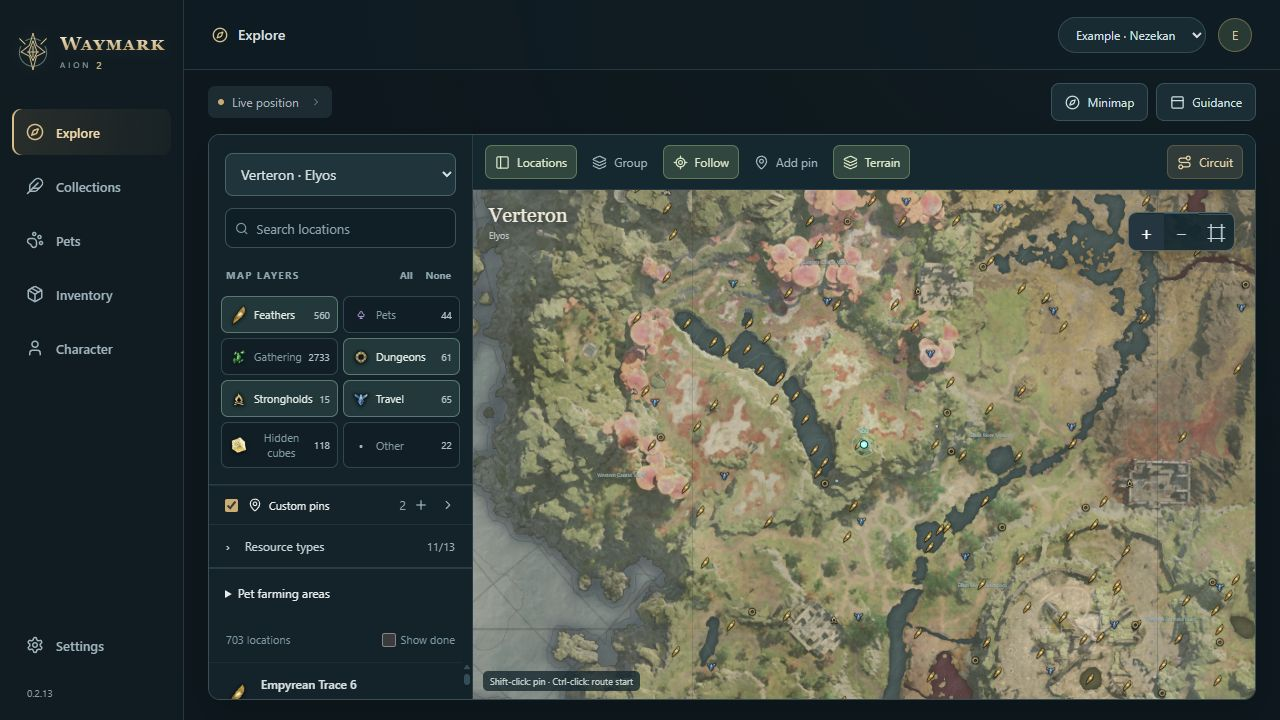
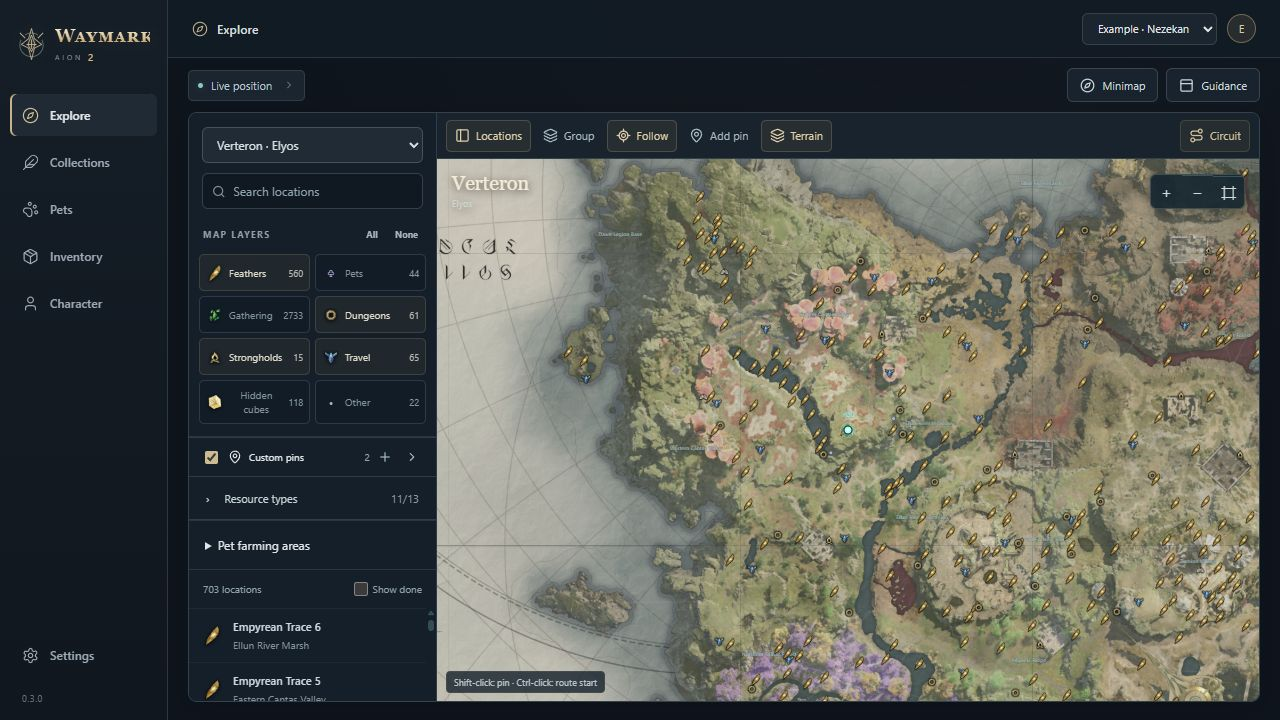
Refresh 0.3.0 interface screenshots and getting-started guide

diff --git a/docs/GETTING_STARTED.md b/docs/GETTING_STARTED.md
@@ -1,14 +1,14 @@
 # Getting started with Waymark
 
-[Download 0.2.13](https://github.com/ErebusAres/waymark-downloads/releases/download/v0.2.13/Waymark-0.2.13-Setup.exe) · [Back to Waymark](../README.md)
+[Download 0.3.0](https://github.com/ErebusAres/waymark-downloads/releases/download/v0.3.0/Waymark-0.3.0-Setup.exe) · [Back to Waymark](../README.md)
 
 ## Install
 
-Run **Waymark-0.2.13-Setup.exe** on 64-bit Windows 10 or 11. The installer includes a WebView2 bootstrapper for systems missing that runtime; it may need an internet connection. No Python, Node.js or development tools are required.
+Run **Waymark-0.3.0-Setup.exe** on 64-bit Windows 10 or 11. The installer includes a WebView2 bootstrapper for systems missing that runtime; it may need an internet connection. No Python, Node.js or development tools are required.
 
 On first launch, select Verteron, Altgard or Abyss and choose whether to show the floating minimap. **Start exploring** applies the map selection; **Keep current map** keeps the existing map. Both actions save the minimap checkbox.
 
-![First-run setup with the starting map and floating minimap checkbox](images/setup.jpg)
+![Quick setup with the starting map and floating minimap checkbox](images/setup.jpg)
 
 The preview installer does not currently have a Windows publisher certificate. The built-in updater separately verifies Waymark release signatures; this is different from Windows publisher signing. Download only from this repository's Releases page.
 
@@ -43,7 +43,7 @@ Routes are map guidance between reference points, not terrain-aware navigation. 
 
 ## Floating minimap
 
-Use **Minimap** on Explore or **Settings → Application → Show floating minimap**. Turning the setting off closes the minimap immediately and remembers the choice for the next launch.
+Use **Minimap** on Explore or **Settings → General → Show floating minimap**. Turning the setting off closes the minimap immediately and remembers the choice for the next launch.
 
 The minimap starts near the player at the closest zoom tier. Drag its header to move it. Use the tier button to cycle three zoom levels, or the scroll wheel while unlocked. Lock enables click-through so clicks reach the game beneath it. **Ctrl+Shift+G** unlocks the overlay. If another app owns that shortcut, Waymark keeps click-through off.
 
@@ -65,7 +65,7 @@ Supported Verteron map views can recognize claimed-feather evidence. Automatic c
 
 ## Saved preferences
 
-Map layers, individual resource filters, Follow, per-map pan and zoom, custom pins, circuits, named routes, pet sorting and collection filters are saved locally. The minimap remembers whether it is open, its X/Y position, zoom tier and lock. Main-window position, size and maximized state are also retained. If a monitor is disconnected, an off-screen window returns to the primary display.
+Map layers, individual resource filters, Follow, per-map pan and zoom, custom pins, circuits, named routes, pet sorting, collection filters, inventory filters and the selected Settings section are saved locally. The minimap remembers whether it is open, its X/Y position, zoom tier and lock. Main-window position, size and maximized state are also retained. If a monitor is disconnected, an off-screen window returns to the primary display.
 
 Update preferences are saved in Settings. **Launch at startup** controls the current Windows user's startup entry.
 
@@ -83,8 +83,8 @@ Data is stored in **%LOCALAPPDATA%\AionCompanion** unless a custom data director
 | --- | --- |
 | No character or pet updates | Npcap compatibility option, one supported game client, other readers closed, then enter a character after starting Waymark |
 | Position unavailable | Correct map, visible in-game map/minimap terrain, reader diagnostics; last-known is not a fresh fix |
-| Minimap appears unexpectedly | Update to 0.2.13, turn off **Show floating minimap**, then relaunch to confirm the saved preference |
-| Teleport names are not English | Update to 0.2.13; all Verteron and Altgard kibelisk labels were replaced |
+| Minimap appears unexpectedly | Update to 0.3.0, turn off **Show floating minimap**, then relaunch to confirm the saved preference |
+| Teleport names are not English | Update to 0.3.0; all Verteron and Altgard kibelisk labels were replaced |
 | App cannot check online updates | Check the selected update source and connection; the current installer is always on the Releases page |
 
 For a report, include the app version, map, steps and relevant status text. Crop private information from screenshots. Do not attach game login details, databases or packet captures to a public issue.

diff --git a/README.md b/README.md
@@ -4,7 +4,7 @@
 
 Waymark is a Windows app for AION 2 Global Steam. Explore the world map, build farming routes, and follow your pet collection in one place. A floating minimap keeps nearby objectives visible while you play.
 
-[**Download Waymark 0.2.13 for Windows**](https://github.com/ErebusAres/waymark-downloads/releases/download/v0.2.13/Waymark-0.2.13-Setup.exe) · [Getting started](docs/GETTING_STARTED.md) · [Release notes](https://github.com/ErebusAres/waymark-downloads/releases/tag/v0.2.13) · [All downloads](https://github.com/ErebusAres/waymark-downloads/releases)
+[**Download Waymark 0.3.0 for Windows**](https://github.com/ErebusAres/waymark-downloads/releases/download/v0.3.0/Waymark-0.3.0-Setup.exe) · [Getting started](docs/GETTING_STARTED.md) · [Release notes](https://github.com/ErebusAres/waymark-downloads/releases/tag/v0.3.0) · [All downloads](https://github.com/ErebusAres/waymark-downloads/releases)
 
 Windows 10/11, 64-bit. Public preview. No GitHub account needed to download.
 
@@ -26,11 +26,17 @@ Supported live soul pickups update progress without relogging, and reaching a ti
 
 ![Waymark pet page with compact cards and soul progress bars](docs/images/pets.jpg)
 
-*Screenshots show the 0.2.13 interface with an example profile and illustrative progress.*
+*Screenshots show the 0.3.0 interface with an example profile and illustrative progress.*
+
+## A cleaner desktop workspace
+
+The 0.3.0 refresh gives maps and pet cards more room, keeps controls consistent, and separates everyday settings from capture and calibration tools. Settings now has General, Updates, Data & backups, Connection and Advanced sections.
+
+![Waymark settings with a dedicated navigation list](docs/images/settings.jpg)
 
 ## Start playing
 
-1. Download and run **Waymark-0.2.13-Setup.exe**. Setup includes the WebView2 bootstrapper if the Windows web runtime is missing.
+1. Download and run **Waymark-0.3.0-Setup.exe**. Setup includes the WebView2 bootstrapper if the Windows web runtime is missing.
 2. Choose a starting map and whether to open the floating minimap. You can change both later.
 3. For automatic character and pet reads, install [Npcap from its official site](https://npcap.com/#download) with **WinPcap API-compatible Mode** enabled. Map planning works without it.
 4. Start Waymark before entering your character. If you opened Waymark while already in game, return to character selection and enter once so it can identify the session.
@@ -48,7 +54,7 @@ Resource and pet spawn markers are reference locations, not a live spawn-availab
 
 Waymark checks for updates on launch by default. Download and automatic installation preferences are available in **Settings → Updates**. Downloads show progress; installing an update restarts the app. The built-in updater verifies release signatures before installation.
 
-Character observations, progress, pins, routes and settings are stored locally. Waymark does not ask for your game password, control your character or inject code into the game. Research recordings are explicit local captures, not automatic uploads. Use the backup tools in Settings before moving or resetting data.
+Character observations, progress, pins, routes and settings are stored locally. Waymark does not ask for your game password, control your character or inject code into the game. Research recordings are explicit local captures, not automatic uploads. Use **Settings → Data & backups** before moving or resetting data.
 
 ## Help and feedback
 
